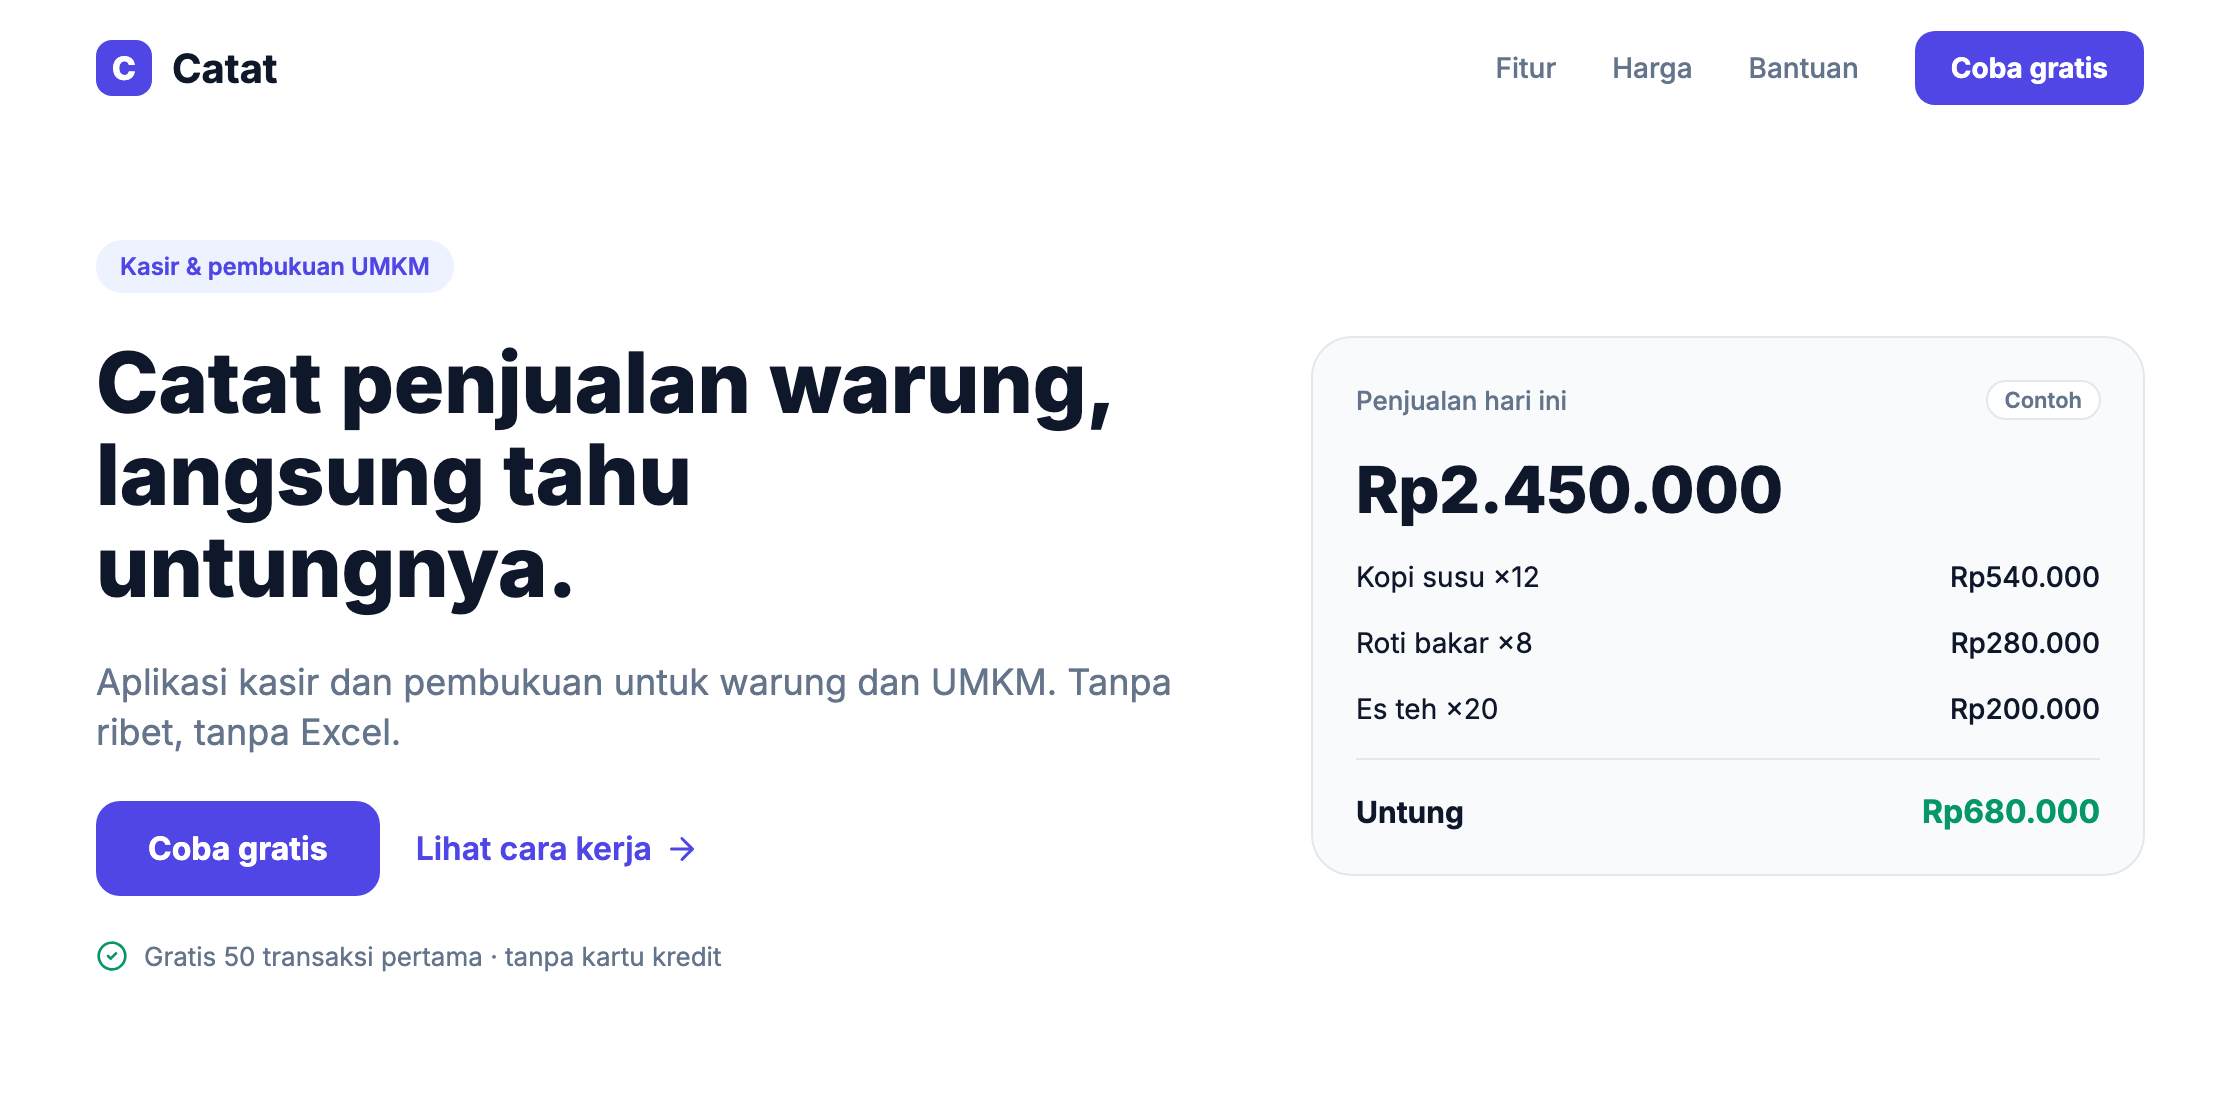
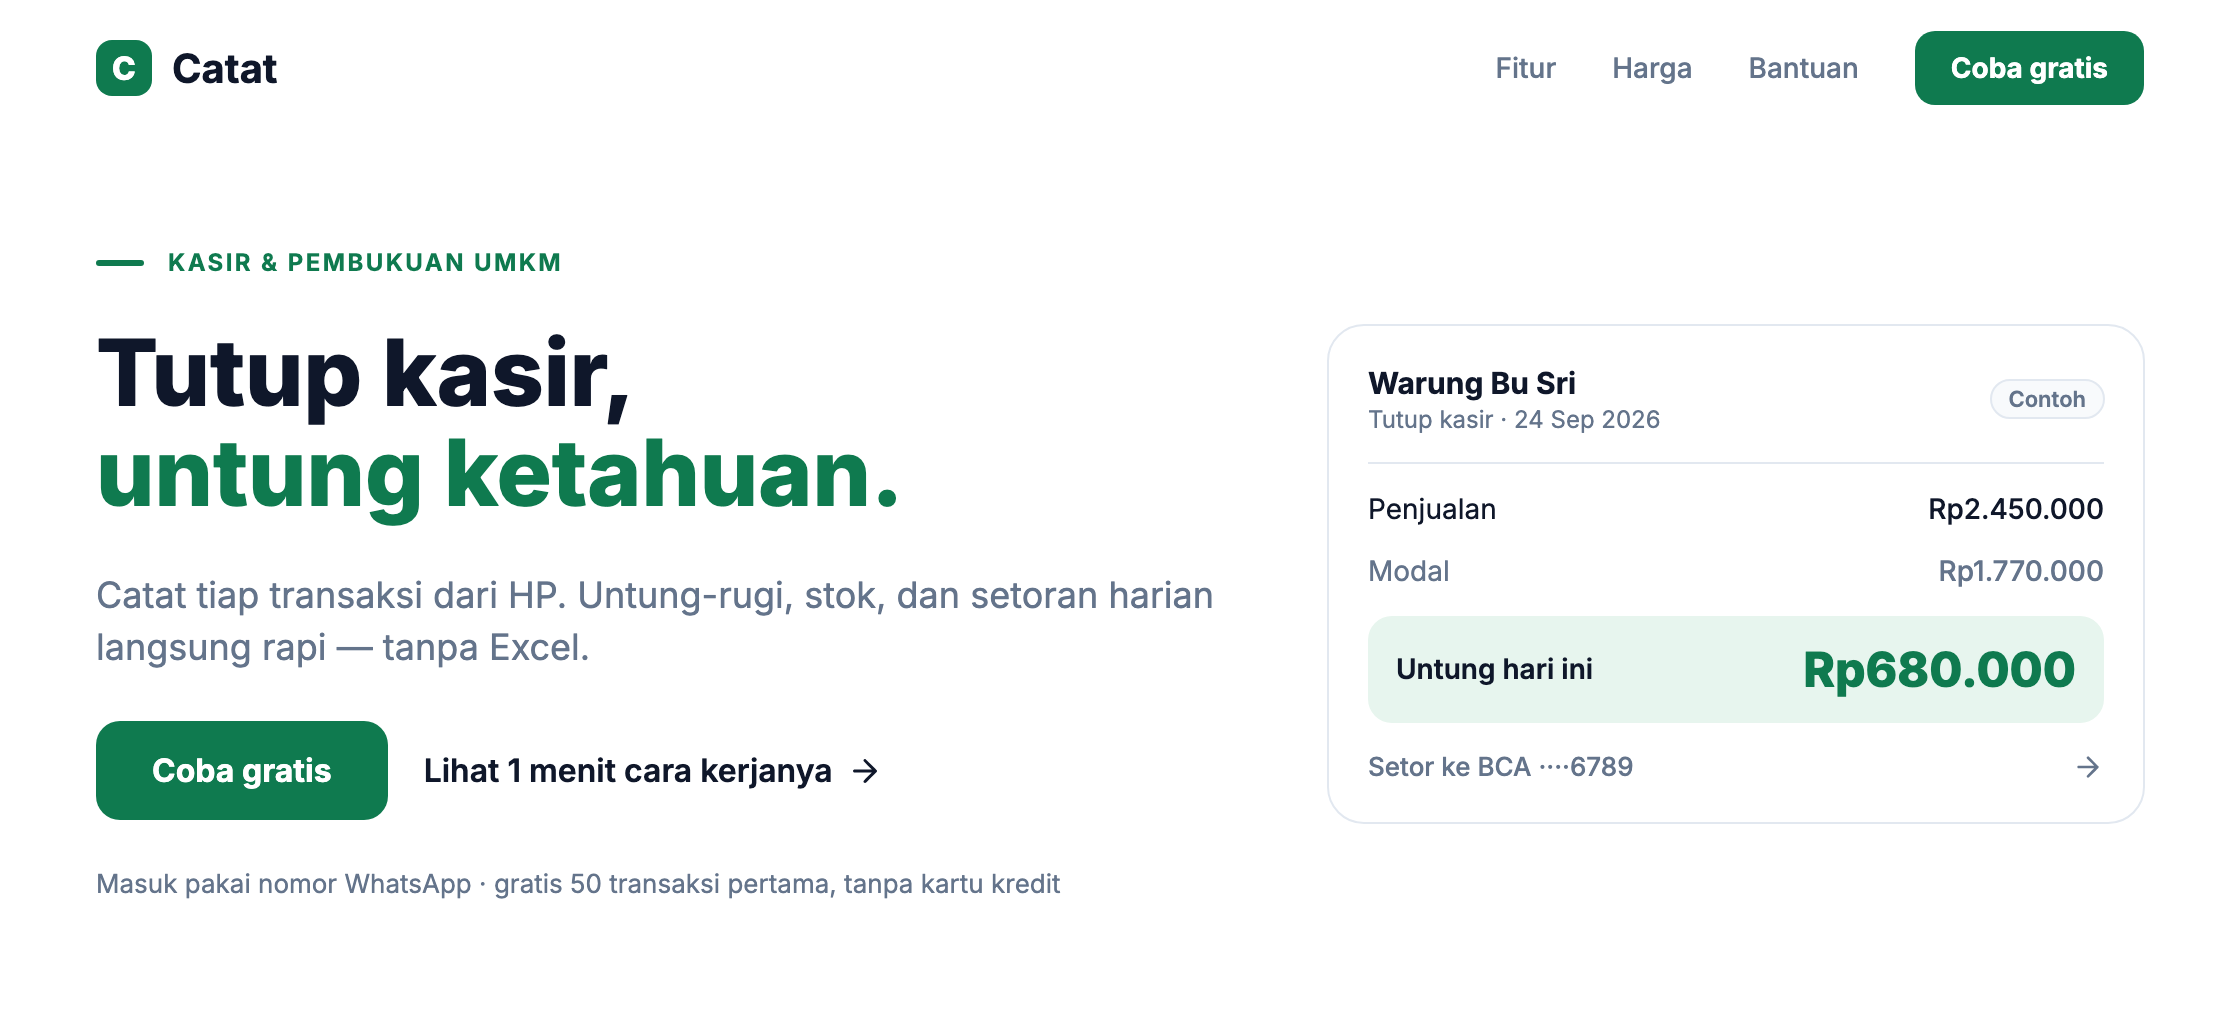
docs(readme): make landing hero "after" more anti-slop
Redesign the hero after to shed the remaining AI-template tells: swap
default indigo for a meaningful green brand (profit), drop the pill
eyebrow for an editorial kicker, use an idiomatic Bahasa headline with
a colored keyword, and replace the generic metric card with a grounded
"tutup kasir" moment for a sample merchant (Warung Bu Sri) plus local
patterns (WhatsApp login, setor ke BCA). Update README copy/alt text.

diff --git a/README.md b/README.md
@@ -81,11 +81,11 @@ _Tanpa ryux_ — hero generik "berbau AI": buzzword, statistik karangan, logo pa
 
 <a href="assets/compare/hero/hero-before.png"><img src="assets/compare/hero/hero-before.png" alt="Hero landing generik: logo Nexlify dengan sparkle, judul Empower Your Business with AI-Powered Solutions, subjudul buzzword all-in-one platform, dua tombol Get Started Free dan Book a Demo, rating bintang lima palsu Trusted by 10,000+ teams worldwide, grid logo AS SEEN IN kosong" width="100%"></a>
 
-_Dengan `ryux-rules`_ — spesifik, jujur, Bahasa Indonesia, satu CTA jelas, tanpa angka karangan.
+_Dengan `ryux-rules`_ — spesifik, jujur, Bahasa Indonesia, warna brand bermakna (hijau = untung), satu CTA jelas, pola lokal (login WhatsApp, setor ke BCA).
 
-<a href="assets/compare/hero/hero-after.png"><img src="assets/compare/hero/hero-after.png" alt="Hero landing ryux: aplikasi kasir Catat, judul Catat penjualan warung langsung tahu untungnya, subjudul aplikasi kasir dan pembukuan untuk UMKM, tombol Coba gratis dan Lihat cara kerja, tawaran jujur gratis 50 transaksi pertama tanpa kartu kredit, pratinjau produk penjualan hari ini Rp2.450.000 berlabel Contoh" width="100%"></a>
+<a href="assets/compare/hero/hero-after.png"><img src="assets/compare/hero/hero-after.png" alt="Hero landing ryux: aplikasi kasir Catat dengan warna brand hijau, kicker KASIR & PEMBUKUAN UMKM, judul Tutup kasir untung ketahuan, subjudul catat tiap transaksi dari HP tanpa Excel, tombol Coba gratis dan Lihat 1 menit cara kerjanya, baris masuk pakai nomor WhatsApp gratis 50 transaksi pertama, pratinjau tutup kasir Warung Bu Sri dengan untung hari ini Rp680.000 dan setor ke BCA berlabel Contoh" width="100%"></a>
 
-Slop: buzzword tanpa makna (RX-C-06), "10.000+" tanpa sumber (RX-C-03), logo palsu (RX-C-04). ryux: manfaat spesifik, tawaran nyata alih-alih statistik karangan, pratinjau ditandai `Contoh` (RX-C-05).
+Slop: buzzword tanpa makna (RX-C-06), "10.000+" tanpa sumber (RX-C-03), logo palsu (RX-C-04), warna indigo default template. ryux: manfaat spesifik + idiom lokal, warna brand bermakna, tawaran nyata alih-alih statistik karangan, pola lokal (WhatsApp/BCA), pratinjau ditandai `Contoh` (RX-C-05).
 
 **Keputusan desain**
 
